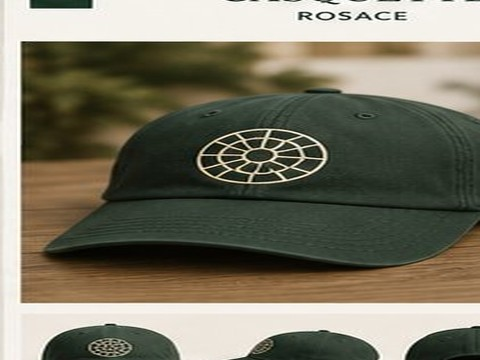
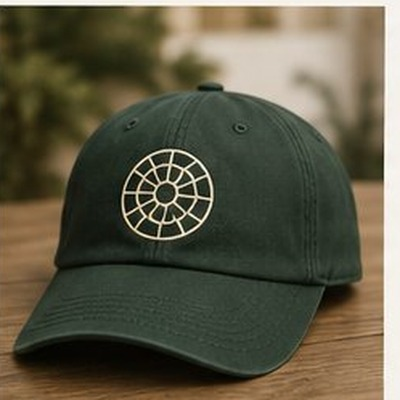
update: optimisation images boutique + ajustements page

diff --git a/app/sainte-adele/boutique/page.tsx b/app/sainte-adele/boutique/page.tsx
@@ -189,7 +189,7 @@ export default function BoutiquePage() {
             const isAdded = added === p.id;
             return (
               <div key={p.id} className="card flex flex-col overflow-hidden">
-                {/* Product photo — circle on coloured bg */}
+                {/* Product photo — perfect circle, square source image */}
                 <div className="flex flex-col items-center pt-6 pb-4 relative"
                   style={{ background:"#f5f2ed" }}>
                   {p.tag && (
@@ -198,10 +198,14 @@ export default function BoutiquePage() {
                       {p.tag[lang]}
                     </span>
                   )}
-                  <div className="rounded-full overflow-hidden shadow-md"
-                    style={{ width:"160px", height:"160px", background:"white", flexShrink:0 }}>
-                    <Image src={p.img} alt={p.name[lang]} width={160} height={160}
-                      style={{ width:"100%", height:"100%", objectFit:"cover", objectPosition:"center top" }}/>
+                  <div style={{
+                    width:"164px", height:"164px", borderRadius:"50%",
+                    overflow:"hidden", flexShrink:0,
+                    boxShadow:"0 4px 16px rgba(0,0,0,0.12)",
+                    background:"#f0ede8",
+                  }}>
+                    <Image src={p.img} alt={p.name[lang]} width={164} height={164}
+                      style={{ width:"164px", height:"164px", display:"block" }}/>
                   </div>
                 </div>
 
